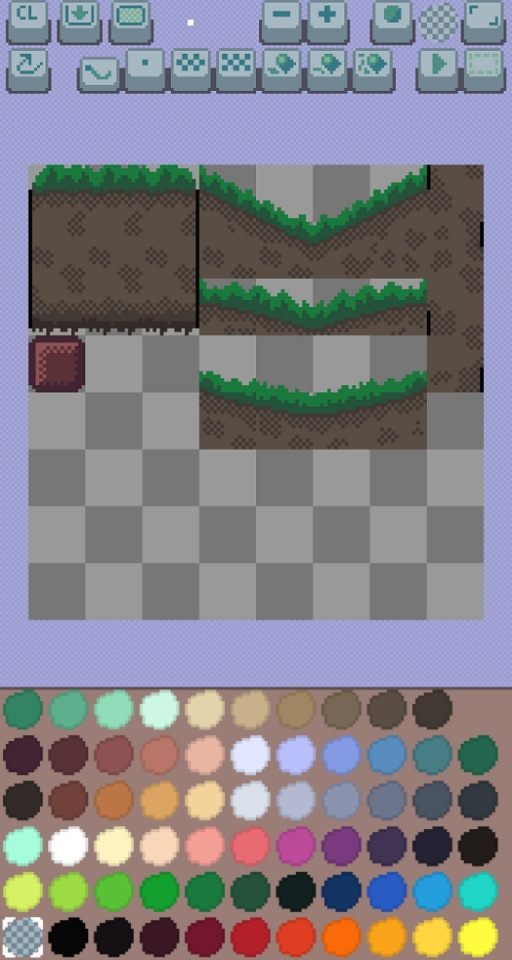
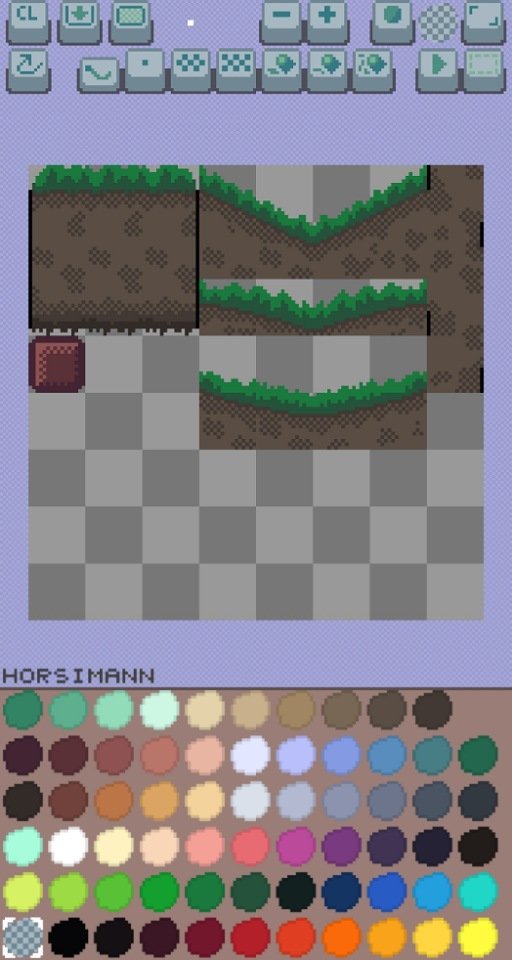
gpush

Changed region(s): [[0.0, 0.6875, 0.3125, 0.7188]]

diff --git a/src/animation.c b/src/animation.c
@@ -1,4 +1,5 @@
 #include "r/ro_single.h"
+#include "r/ro_text.h"
 #include "r/texture.h"
 #include "u/pose.h"
 #include "camera.h"
@@ -12,6 +13,7 @@ struct AnimationGlobals_s animation;
 
 
 static struct {
+	rRoText horsimann;
 	rRoSingle ro;
 	int mcols, mrows;
     int frames;
@@ -50,20 +52,38 @@ void animation_init(int multi_cols, int multi_rows, int frames, float fps) {
 	
 	r_ro_single_init(&L.ro, camera.gl, tex);
 	u_pose_set_w(&L.ro.rect.uv, 1.0/frames);
+	
+	r_ro_text_init_font55(&L.horsimann, 9, camera.gl);
+	vec4 color = {{0.25, 0.25, 0.25, 1}};
+	for(int i=0; i<L.horsimann.ro.num; i++) {
+		L.horsimann.ro.rects[i].color = color;
+	}
+	r_ro_text_set_text(&L.horsimann, "horsimann");
+	
 }
 
 void animation_update(float dtime) {
-	if(!animation.show)
+	if(!animation.show) {
+	    if(camera_is_portrait_mode())
+		    u_pose_set_xy(&L.horsimann.pose,
+		        camera_left()+1, 
+		        ceilf(camera_bottom() + palette_get_hud_size() + 6));
+	    else
+		    u_pose_set_xy(&L.horsimann.pose,
+		       camera_left()+30, ceilf(camera_bottom() + 6));	
 	    return;
-	    
+	}
+	
 	L.time = fmodf(L.time + dtime, L.frames / L.fps);
 	float u = floorf(L.time * L.fps) / L.frames;
 	u_pose_set_x(&L.ro.rect.uv, u);
 }
 
 void animation_render() {
-	if(!animation.show)
+	if(!animation.show) {
+	    r_ro_text_render(&L.horsimann);
 	    return;
+	}
 	    
 	for(int r=0; r<L.mrows; r++) {
 		for(int c=0; c<L.mcols; c++) {
